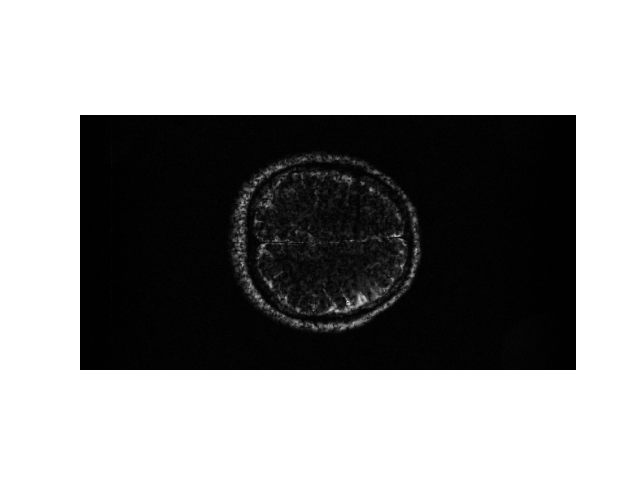
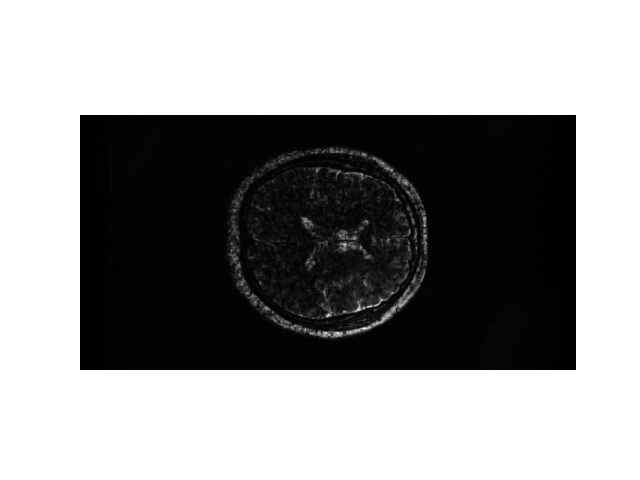
checking mri operators

Changed region(s): [[0.3438, 0.2812, 0.6875, 0.7188]]

diff --git a/my_CDLNet/sense.py b/my_CDLNet/sense.py
@@ -62,7 +62,7 @@ def main(args):
 
     # Mask kspace
     kspace_masked = torch.complex(mask[None, :, :], mask[None, :, :]) @ kspace
-    mri_recon, tol_reached = sense(kspace_masked, mask, smaps, verbose = False)
+    mri_recon, tol_reached = sense(kspace_masked, mask, smaps, verbose = True)
 
     breakpoint()
     gnd_truth = fft.fftshift(mri_decoding(kspace, mask, smaps))

diff --git a/my_CDLNet/mri_utils.py b/my_CDLNet/mri_utils.py
@@ -20,7 +20,8 @@ def mri_encoding(x, acceleration_map, smaps):
     # x_coils is C x N x N
     y_coils = (fft.fft2(x_coils, norm = 'ortho'))
     # y_coils is C x N x N
-    y_mask = torch.einsum('jj, ijk -> ijk', acceleration_map, y_coils)
+    mask = acceleration_map
+    y_mask = torch.complex(mask[None, :, :], mask[None, :, :]) @ y_coils
     return y_mask
 
 
